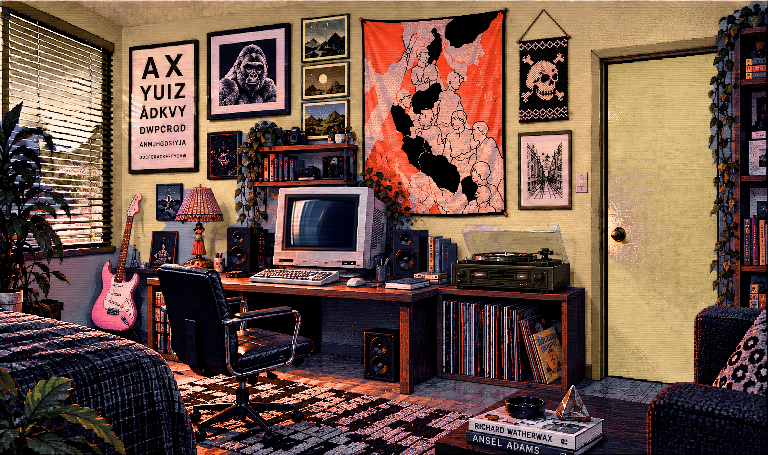
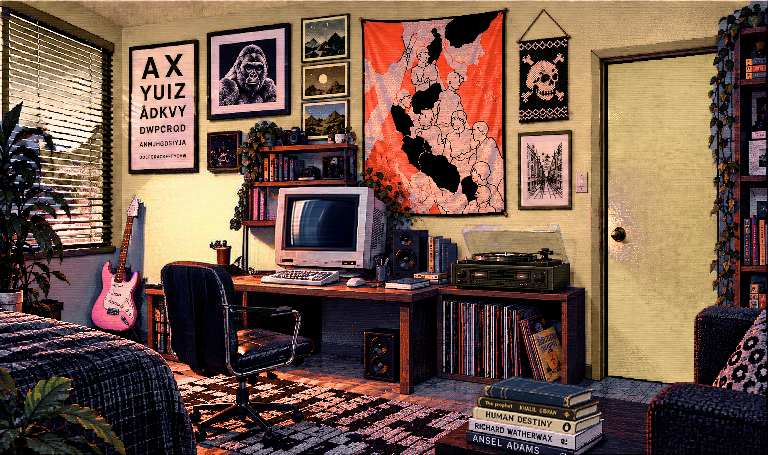
Add files via upload

Changed region(s): [[0.1562, 0.3385, 0.375, 0.7385], [0.5938, 0.8308, 0.7812, 0.9538]]

diff --git a/index.html b/index.html
@@ -332,6 +332,16 @@ html,body{margin:0;width:100%;height:100%;overflow:hidden;background:#05070b;col
 @media(max-width:600px){.henry-cover{width:min(72vw,360px);max-height:68vh}.henry-openbook{width:98vw}.henry-page-text{font-size:clamp(10px,2.85vw,15px);padding:3.5%}.henry-back{top:8px;left:8px;font-size:11px;padding:5px 8px}}
 
 
+
+/* Upside-down sucker book: whole floor stack is an easy tap target. */
+#suckerBook{left:59%;top:81%;width:18%;height:19%}
+.sucker-window{position:fixed;inset:48px 0 58px;z-index:82;display:none;pointer-events:none;overflow:hidden}
+.sucker-window.open{display:block;pointer-events:auto}
+.sucker-dim{position:absolute;inset:0;background:rgba(0,0,0,.16)}
+.sucker-stage{position:absolute;inset:0;display:grid;place-items:center;pointer-events:none}
+.sucker-cover{width:min(66vw,430px);max-height:74vh;object-fit:contain;image-rendering:pixelated;filter:drop-shadow(10px 14px 8px rgba(0,0,0,.58));pointer-events:auto;cursor:pointer;user-select:none;-webkit-user-drag:none}
+@media(max-width:600px){.sucker-cover{width:min(72vw,360px);max-height:70vh}}
+
 #finlandBook{left:46%;top:61%;width:18%;height:13%}
 .finland-window{position:fixed;inset:48px 0 58px;z-index:81;display:none;pointer-events:none;overflow:hidden}
 .finland-window.open{display:block;pointer-events:auto}.finland-dim{position:absolute;inset:0;background:rgba(0,0,0,.16)}
@@ -500,6 +510,7 @@ html,body{margin:0;width:100%;height:100%;overflow:hidden;background:#05070b;col
     <button class="hotspot" id="records" aria-label="Records and books"></button>
     <button class="hotspot" id="henryBook" aria-label="Books on the shelf"></button>
 <button class="hotspot" id="finlandBook" aria-label="Books on the desk"></button>
+    <button class="hotspot" id="suckerBook" aria-label="Stack of books on the floor"></button>
    </div>
    <button class="back" id="back">← BACK</button>
    <div class="mode"><b id="modeText">NIGHT MODE</b><span id="clock"></span></div>
@@ -528,6 +539,11 @@ html,body{margin:0;width:100%;height:100%;overflow:hidden;background:#05070b;col
     </div>
    </section>
 
+
+   <section class="sucker-window" id="suckerWindow" aria-label="How to Trick Suckers Into Reading Upside Down Words">
+    <div class="sucker-dim"></div>
+    <div class="sucker-stage"><img class="sucker-cover" id="suckerCover" src="suckers-cover.png" alt="How to Trick Suckers Into Reading Upside Down Words"></div>
+   </section>
    <section class="finland-window" id="finlandWindow" aria-label="A Field Guide to Finland">
 <div class="finland-dim"></div><div class="finland-stage">
 <img class="finland-cover" id="finlandCover" src="finland-cover.png" alt="A Field Guide to Finland">
@@ -730,6 +746,7 @@ function roomObjectAt(clientX,clientY){
   ['music',59.0,49.5,17.8,21.5],
   ['henryBook',32.0,31.0,15.0,7.0],
   ['finlandBook',46.0,61.0,18.0,13.0],
+  ['suckerBook',59.0,81.0,18.0,19.0],
   ['photos',24.0,8.5,21.5,34.5],
   ['door',76.7,10.0,17.5,60.0],
   ['guitar',11.0,43.5,8.5,31.5],
@@ -789,6 +806,7 @@ const recordZoom={fx:-.245,fy:-.105,s:1.62};
 const skullZoom={fx:-.499,fy:.682,s:2.35};
 const bookZoom={fx:.145,fy:.285,s:1.82};
 const finlandZoom={fx:.03,fy:-.20,s:1.72};
+const suckerZoom={fx:-.19,fy:-.39,s:1.78};
 let activeZoom=computerZoom;
 const zoomDuration=340;
 let zoomAnim=0;
@@ -835,8 +853,8 @@ function animateComputerZoom(from,to,done){
 }
 
 function goView(name){
- if(name!=='computer' && name!=='record' && name!=='skull' && name!=='book' && name!=='finland')return;
- activeZoom=name==='record'?recordZoom:(name==='skull'?skullZoom:(name==='book'?bookZoom:(name==='finland'?finlandZoom:computerZoom)));
+ if(name!=='computer' && name!=='record' && name!=='skull' && name!=='book' && name!=='finland' && name!=='sucker')return;
+ activeZoom=name==='record'?recordZoom:(name==='skull'?skullZoom:(name==='book'?bookZoom:(name==='finland'?finlandZoom:(name==='sucker'?suckerZoom:computerZoom))));
  zoomed=true;
  scene.classList.add('zoomed');
  hint.style.opacity='0';
@@ -876,6 +894,20 @@ document.getElementById('computer').addEventListener('click',(e)=>{
 
 
 
+
+
+/* Upside-down sucker book: pickup -> title -> tap again to return. */
+const suckerWindow=document.getElementById('suckerWindow');
+const suckerCover=document.getElementById('suckerCover');
+function closeSucker(){
+ suckerWindow.classList.remove('open');
+ if(!zoomBase)zoomBase={left:viewport.clientWidth/2+panX,top:viewport.clientHeight/2+panY};
+ animateComputerZoom(1,0,()=>{zoomed=false;scene.classList.remove('zoomed');hint.style.opacity='1';camera.style.left=(viewport.clientWidth/2+panX)+'px';camera.style.top=(viewport.clientHeight/2+panY)+'px';camera.style.transform='translate(-50%,-50%) scale(1.005)';status.textContent='CLICK AROUND.';zoomBase=null;activeZoom=computerZoom});
+}
+document.getElementById('suckerBook').addEventListener('click',e=>{e.stopPropagation();moved=false;goView('sucker');setTimeout(()=>{suckerWindow.classList.add('open');status.textContent='...'},zoomDuration+35)});
+suckerWindow.addEventListener('pointerdown',e=>e.stopPropagation());
+suckerWindow.addEventListener('click',e=>e.stopPropagation());
+suckerCover.addEventListener('click',closeSucker);
 
 const finlandWindow=document.getElementById('finlandWindow'),finlandCover=document.getElementById('finlandCover'),finlandReader=document.getElementById('finlandReader'),finlandArt=document.getElementById('finlandArt'),finlandTitle=document.getElementById('finlandTitle'),finlandBody=document.getElementById('finlandBody'),finlandNote=document.getElementById('finlandNote'),finlandInstruction=document.getElementById('finlandInstruction');
 const finlandSpreads=[{"art":"finland-spread-1.png","title":"WHERE DOES “FINLAND” GO?","body":"Nowhere. There is no country there.\n\nThe shape printed between Sweden and Russia is a label laid over Russian territory. The map is familiar because familiarity is useful.\n\nThe border exists on paper. The land underneath does not change."},{"art":"finland-spread-2.png","title":"THE PAPER TRAIL","body":"Look for Finland in the records and you find paperwork pointing back to more paperwork.\n\nThe name is real. The forms are real. The institutions are real. That is how an administrative identity survives without requiring a country beneath it.\n\nA label repeated long enough becomes a place."},{"art":"finland-spread-3.png","title":"THE ARRANGEMENT","body":"Russia controls the waters. Japan wants the fish. “Finland” keeps the exchange ordinary enough to ignore.\n\nThe catch gets a country. The country gets a story. The story keeps the operation out of sight.\n\nEveryone gets what they need."},{"art":"finland-spread-4.png","title":"FOLLOW THE FISH","body":"Do not follow the border. Follow the product.\n\nThe catch is collected, packed and moved east through established routes until it reaches Japan.\n\nThe fish changes hands. The paperwork changes names. The destination does not.\n\nSame fish. Different label."},{"art":"finland-spread-5.png","title":"IT’S RIGHT THERE","body":"They even left the purpose in the name.\n\nFIN + LAND.\n\nA land of fins. A geographic label built around the thing being moved through it.\n\nPeople call that a coincidence because the alternative requires another question."},{"art":"finland-spread-6.png","title":"THE FINNISH","body":"Finnish people are real. Finland is not. Those facts do not conflict.\n\n“Finnish” describes a people, not proof of a country. They live across the north — in the territory labeled Finland and beyond it, among Sweden, Norway, Russia and elsewhere.\n\nHomes are real. Cities are real. People are real.\n\nThe label tells you where to stop asking."},{"art":"finland-spread-7.png","title":"NOKIA","body":"Then there is Nokia.\n\nPaper. Rubber. Cable. Electronics. Military equipment. Telecommunications. One name passing through nearly every industry a modern state would need.\n\nEventually the world knew it for phones — another Finnish thing carried everywhere while nobody questioned the word printed beneath it.\n\nThe phones were never the strange part.\n\nThe name on the box was."},{"art":"finland-spread-8.png","title":"","body":""}];
